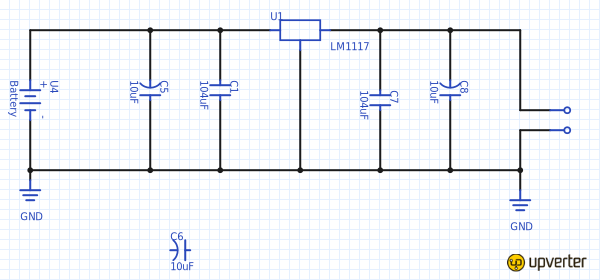
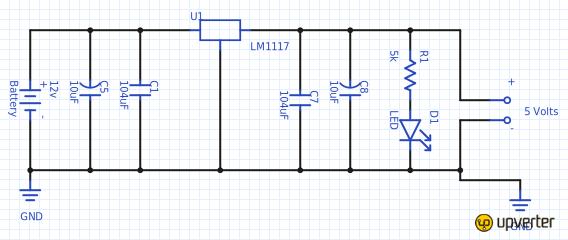
plus sur la batterie

Changed region(s): [[0.0, 0.0, 1.0, 0.9917]]

diff --git a/src/volume-3/ghetto-blaster.rst b/src/volume-3/ghetto-blaster.rst
@@ -22,7 +22,7 @@ Enceintes & ampli
 
 
 En fouillant dans ma cave, j'ai trouvé deux enceintes trois voies Panasonic
-de 100 Watts (en vrai 25W) qui étaient dans mon ancienne voiture, et
+de 100 Watts (en vrai 25W RMS) qui étaient dans mon ancienne voiture, et
 une valise en aluminium qui contenait des outils. C'est la valise
 générique qui est souvent vendu avec une perceuse ou des outils.
 Elle en jette mais elle est en carton et a juste une mince couche
@@ -30,13 +30,19 @@ d'aluminium par dessus. La caisse de résonnance parfaite pour
 un prix avoisinant les 10 euros...
 
 Ni une, ni deux, j'ai vidé la valise et retiré sa doublure
-plastique et percé deux trous pour les enceintes à l'aide
+plastique, puis percé deux trous pour les enceintes à l'aide
 d'un gros cutter.
 
 Pour l'amplification j'ai opté pour un petit amplificateur
-25 Watts 2 voies qui permet quelques réglages basses/medium/aigues,
-et dont le panneau frontal se dévisse - Payé 27 euros
-sur Amazon. XXX
+`Lepai 20 Watts 2 voies <http://www.amazon.fr/Lepai-Tripath-class-T-Amplificateur-acoustique/dp/B009US84UQ/>`_
+qui permet quelques réglages basses/medium/aigues,
+et dont le panneau frontal se dévisse - Payé 25 euros
+sur Amazon.
+
+.. figure:: ghetto/ampli.jpg
+   :scale: 50
+
+   Ampli Lepai 20w.
 
 Ca m'a permis de remettre ce panneau sur la valise et de revisser
 le corps de l'ampli à l'intérieur. Bien sûr, le top du top
@@ -50,13 +56,75 @@ de loin la qualité de mes enceintes de salon**.
 Alimentation
 ------------
 
+Avoir une alimentation stable & portative était le gros challenge
+de ce projet: comment faire pour fournir les 12v que
+l'amplificateur requiert, ainsi que les 5v pour le Raspberry ?
 
-XXX regul etc
+Au début j'ai pensé à équiper la valise d'une `batterie au plomb
+<https://fr.wikipedia.org/wiki/Batterie_au_plomb>`_
+qui est similaire à celles qui équipent les voitures, mais
+j'ai très vite déchanté sur le prix et le poids - et aussi
+le coté pas très écologique.
 
+J'ai ensuite pensé à monter moi-même un train de 4 batteries
+Li-Po 3.6v, mais ce genre de montage est assez technique car
+il faut s'assurer que toutes les batteries sont toujours
+chargées au même niveau et aussi ne jamais descendre en
+dessous d'une certaine charge. Et puis bon, c'est
+`dangeureux tout ça... <https://www.youtube.com/watch?v=ixIOEPnsgbI>`_
+
+Grâce à Jonathan j'ai finalement trouvé une Li-Po de 12v et
+6.8A sur AliBaba très compacte et légère. Guère plus grosse que
+celle que l'on trouve dans les avions ou voitures radio-commandé,
+avec toutes les protections nécessaires.
+
+.. figure:: ghetto/batterie.jpg
+   :scale: 25
+   :figclass: pull-right margin-left
+   :align: right
+
+   Li-Po 12v 6800mA
+
+Reste à fabriquer un petit régulateur pour ajouter une deuxième
+sortie de 5v à la batterie.
+
+Pour transformer une tension de 12v
+en 5v il y a deux méthodes: utiliser une séries de résistances
+pour simplement diviser le voltage, ou utiliser un semi-conducteur
+spécialisé comme le `LM1117 <http://hackspark.fr/fr/ld1117-lm1117-5v-ldo-voltage-regulator-1-3a-to220.html>`_
+qui, accompagné de quelques condensateurs, va faire tout
+le boulot proprement. La deuxième méthode est beaucoup
+plus fiable et évite les variations de tension, qui
+peuvent être problématiques lorsqu'on alimente un Raspberry.
+
+Le montage, expliqué ci-dessous, est très simple: le régulateur
+reçoit les 12 volts sur une patte et renvoie 5v sur l'autre.
+La troisième patte est la masse. Attention, bien
+lire le `datasheet <http://www.st.com/st-web-ui/static/active/en/resource/technical/document/datasheet/CD00000544.pdf>`_
+pour ne pas se tromper de pattes - elles sont différentes
+en fonction des modèles.
 
 .. figure:: ghetto/Voltage-Regulator.png
+   :scale: 75
 
    Schéma du circuit de régulation de tension.
+
+De chaque côté du montage il y a deux condensateurs,
+qui stabilisent le circuit. Si vous montez des condensateurs
+céramiques, attention au sens: ils sont polarisés.
+
+Enfin, une LED est placé sur la partie 5v, avec une petite
+résistance, histoire de montrer que le circuit tourne.
+
+En utilisation, le régulateur chauffe beaucoup puisqu'il dissipe
+l'excès de tension, et il peut être équipé d'un petit radiateur
+à visser - j'en ai récupéré un sur une vieille plaque électronique
+pour ce montage.
+
+Après quelques soudures, un magnifique régulateur de tension!
+
+XXX photo régul.
+
 
 
 
